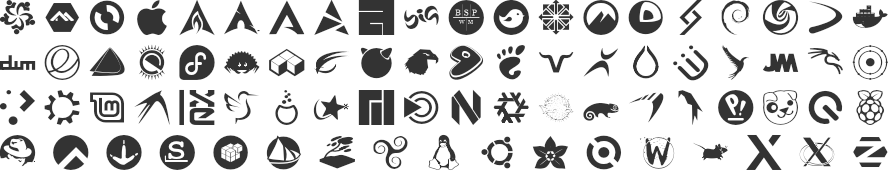
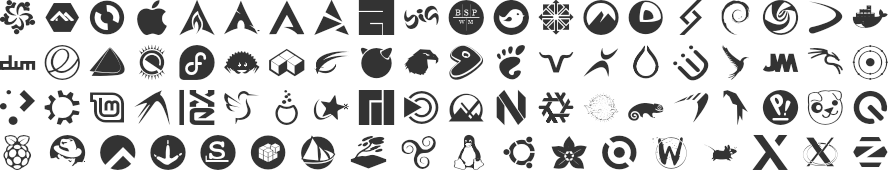
Add MX Linux.
Using their recently updated logo, based on MEPIS.

Changed region(s): [[0.0, 0.7714, 0.9426, 0.9714], [0.4865, 0.5143, 1.0, 0.7143]]

diff --git a/README.md b/README.md
@@ -87,15 +87,16 @@ Available logos are:
 | Mandriva                  | `fl-mandriva`          | `<i class="fl-mandriva"></i>`          |  `0xf311`  | <img src="vectors/mandriva.svg" width="24">          |
 | Manjaro                   | `fl-manjaro`           | `<i class="fl-manjaro"></i>`           |  `0xf312`  | <img src="vectors/manjaro.svg" width="24">           |
 | MATE                      | `fl-mate`              | `<i class="fl-mate"></i>`              |  `0xf345`  | <img src="vectors/mate.svg" width="24">              |
-| Neovim                    | `fl-neovim`            | `<i class="fl-neovim"></i>`            |  `0xf346`  | <img src="vectors/neovim.svg" width="24">            |
+| MX Linux                  | `fl-mxlinux`           | `<i class="fl-mxlinux"></i>`           |  `0xf346`  | <img src="vectors/mxlinux.svg" width="24">           |
+| Neovim                    | `fl-neovim`            | `<i class="fl-neovim"></i>`            |  `0xf347`  | <img src="vectors/neovim.svg" width="24">            |
 | NixOS                     | `fl-nixos`             | `<i class="fl-nixos"></i>`             |  `0xf313`  | <img src="vectors/nixos.svg" width="24">             |
 | OpenBSD                   | `fl-openbsd`           | `<i class="fl-openbsd"></i>`           |  `0xf328`  | <img src="vectors/openbsd.svg" width="24">           |
 | OpenSUSE                  | `fl-opensuse`          | `<i class="fl-opensuse"></i>`          |  `0xf314`  | <img src="vectors/opensuse.svg" width="24">          |
-| Parabola GNU/Linux-libre  | `fl-parabola`          | `<i class="fl-parabola"></i>`          |  `0xf347`  | <img src="vectors/parabola.svg" width="24">          |
+| Parabola GNU/Linux-libre  | `fl-parabola`          | `<i class="fl-parabola"></i>`          |  `0xf348`  | <img src="vectors/parabola.svg" width="24">          |
 | Parrot OS                 | `fl-parrot`            | `<i class="fl-parrot"></i>`            |  `0xf329`  | <img src="vectors/parrot.svg" width="24">            |
 | Pop!_OS                   | `fl-pop-os`            | `<i class="fl-pop-os"></i>`            |  `0xf32a`  | <img src="vectors/pop-os.svg" width="24">            |
-| Puppy Linux               | `fl-puppy`             | `<i class="fl-puppy"></i>`             |  `0xf348`  | <img src="vectors/puppy.svg" width="24">             |
-| Qtile                     | `fl-qtile`             | `<i class="fl-qtile"></i>`             |  `0xf349`  | <img src="vectors/qtile.svg" width="24">             |
+| Puppy Linux               | `fl-puppy`             | `<i class="fl-puppy"></i>`             |  `0xf349`  | <img src="vectors/puppy.svg" width="24">             |
+| Qtile                     | `fl-qtile`             | `<i class="fl-qtile"></i>`             |  `0xf34a`  | <img src="vectors/qtile.svg" width="24">             |
 | Raspberry pi              | `fl-raspberry-pi`      | `<i class="fl-raspberry-pi"></i>`      |  `0xf315`  | <img src="vectors/raspberry-pi.svg" width="24">      |
 | Red Hat                   | `fl-redhat`            | `<i class="fl-redhat"></i>`            |  `0xf316`  | <img src="vectors/redhat.svg" width="24">            |
 | Rocky Linux               | `fl-rocky-linux`       | `<i class="fl-rocky-linux"></i>`       |  `0xf32b`  | <img src="vectors/rocky-linux.svg" width="24">       |
@@ -104,17 +105,17 @@ Available logos are:
 | Slackware (inverse)       | `fl-slackware-inverse` | `<i class="fl-slackware-inverse"></i>` |  `0xf319`  | <img src="vectors/slackware-inverse.svg" width="24"> |
 | Snappy                    | `fl-snappy`            | `<i class="fl-snappy"></i>`            |  `0xf32c`  | <img src="vectors/snappy.svg" width="24">            |
 | Solus                     | `fl-solus`             | `<i class="fl-solus"></i>`             |  `0xf32d`  | <img src="vectors/solus.svg" width="24">             |
-| Sway                      | `fl-sway`              | `<i class="fl-sway"></i>`              |  `0xf34a`  | <img src="vectors/sway.svg" width="24">              |
-| Trisquel GNU/Linux        | `fl-trisquel`          | `<i class="fl-trisquel"></i>`          |  `0xf34b`  | <img src="vectors/trisquel.svg" width="24">          |
+| Sway                      | `fl-sway`              | `<i class="fl-sway"></i>`              |  `0xf34b`  | <img src="vectors/sway.svg" width="24">              |
+| Trisquel GNU/Linux        | `fl-trisquel`          | `<i class="fl-trisquel"></i>`          |  `0xf34c`  | <img src="vectors/trisquel.svg" width="24">          |
 | Tux                       | `fl-tux`               | `<i class="fl-tux"></i>`               |  `0xf31a`  | <img src="vectors/tux.svg" width="24">               |
 | Ubuntu                    | `fl-ubuntu`            | `<i class="fl-ubuntu"></i>`            |  `0xf31b`  | <img src="vectors/ubuntu.svg" width="24">            |
 | Ubuntu (inverse)          | `fl-ubuntu-inverse`    | `<i class="fl-ubuntu-inverse"></i>`    |  `0xf31c`  | <img src="vectors/ubuntu-inverse.svg" width="24">    |
-| Vanilla OS                | `fl-vanilla`           | `<i class="fl-vanilla"></i>`           |  `0xf34c`  | <img src="vectors/vanilla.svg" width="24">           |
+| Vanilla OS                | `fl-vanilla`           | `<i class="fl-vanilla"></i>`           |  `0xf34d`  | <img src="vectors/vanilla.svg" width="24">           |
 | Void                      | `fl-void`              | `<i class="fl-void"></i>`              |  `0xf32e`  | <img src="vectors/void.svg" width="24">              |
-| Wayland                   | `fl-wayland`           | `<i class="fl-wayland"></i>`           |  `0xf34d`  | <img src="vectors/wayland.svg" width="24">           |
-| XFCE                      | `fl-xfce`              | `<i class="fl-xfce"></i>`              |  `0xf34e`  | <img src="vectors/xfce.svg" width="24">              |
-| XMonad                    | `fl-xmonad`            | `<i class="fl-xmonad"></i>`            |  `0xf34f`  | <img src="vectors/xmonad.svg" width="24">            |
-| Xorg                      | `fl-xorg`              | `<i class="fl-xorg"></i>`              |  `0xf350`  | <img src="vectors/xorg.svg" width="24">              |
+| Wayland                   | `fl-wayland`           | `<i class="fl-wayland"></i>`           |  `0xf34e`  | <img src="vectors/wayland.svg" width="24">           |
+| XFCE                      | `fl-xfce`              | `<i class="fl-xfce"></i>`              |  `0xf34f`  | <img src="vectors/xfce.svg" width="24">              |
+| XMonad                    | `fl-xmonad`            | `<i class="fl-xmonad"></i>`            |  `0xf350`  | <img src="vectors/xmonad.svg" width="24">            |
+| Xorg                      | `fl-xorg`              | `<i class="fl-xorg"></i>`              |  `0xf351`  | <img src="vectors/xorg.svg" width="24">              |
 | Zorin OS                  | `fl-zorin`             | `<i class="fl-zorin"></i>`             |  `0xf32f`  | <img src="vectors/zorin.svg" width="24">             |
 
 ## Building ##
